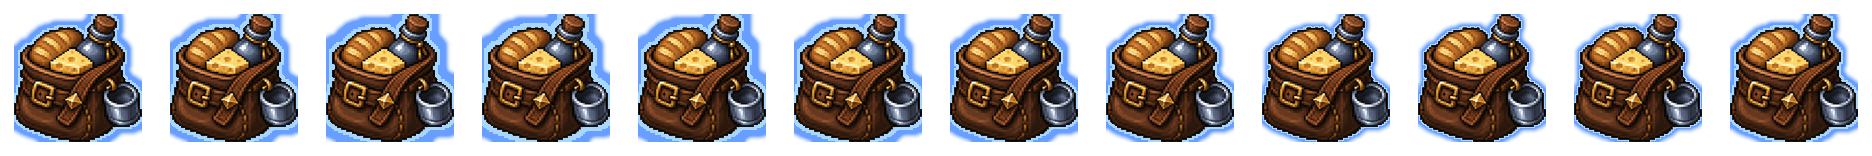
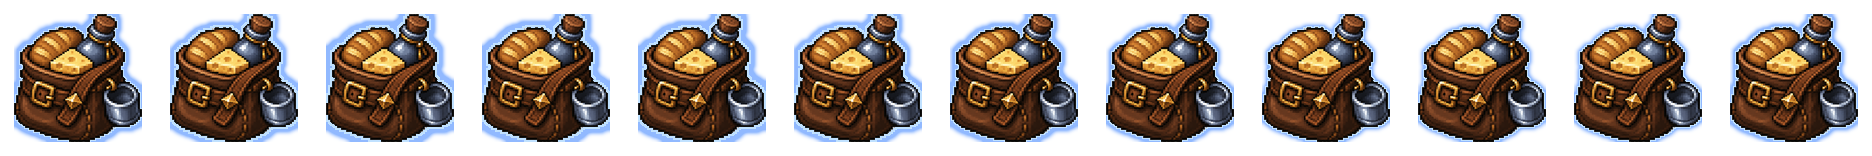
fix: calm the ADV glow and stop the outline pass fringing it
Two separate causes behind one symptom.

Too strong: the halo reached 10px at its widest at up to 235 alpha. Pulled
back to 6px and 170, which reads as a rim on the art rather than a cloud
around it.

Not crisp: TextureRedrawer.redraw always runs its result through
GlowRedrawer's outline pass - a black GlowFilter at full strength - which
is what gives an ordinary sprite its dark edge. Run over a glow's soft
outer falloff it lays a dark fringe along the whole ramp, which is what
made the halo look muddy. Glow frames now ask for a near-zero outline; the
art carries its own black keyline, so nothing is lost. Applies to the
tooltip and the grid alike, so both stay identical.

Added dev/make_glow.py so the halo can be re-tuned without hand-editing a
script each time - --peak is the knob that means 'less glow'.

diff --git a/dev/make_glow.py b/dev/make_glow.py
@@ -1,0 +1,92 @@
+#!/usr/bin/env python3
+"""
+Build a pulsing-glow animation sheet for an item, from its cell in
+CustomUV128x128.png.
+
+The glow is NOT a soft fade. It is a bounded halo whose RADIUS pulses while
+its alpha stays fairly flat, because the icon pipeline is hostile to wide
+soft gradients: TextureRedrawer runs every icon through GlowRedrawer's
+outline pass, and a gradual alpha ramp picks up a dark fringe along its whole
+falloff. A halo with a short edge behaves like an ordinary sprite instead.
+
+Usage:
+
+  python dev/make_glow.py 0x03 AdventurerSwordGlow
+  python dev/make_glow.py 0x04 AdventurerHelmGlow --peak 6 --alpha 170
+
+Tuning knobs, in the order you will actually want them:
+
+  --peak   how far the halo reaches at its widest, in source px (default 6).
+           This is what "too much glow" almost always means.
+  --alpha  ceiling on halo opacity, 0-255 (default 170).
+  --base   how far it reaches at its narrowest (default 2).
+  --edge   softness of the halo's outer edge (default 2). Keep this small;
+           see the note above about wide gradients.
+"""
+
+import argparse
+import os
+
+import numpy as np
+from PIL import Image, ImageFilter
+
+SHEET = "client/src/kabam/rotmg/assets/custom/images/CustomUV128x128.png"
+OUT_DIR = "client/src/kabam/rotmg/assets/custom/images"
+CELL = 128
+CANVAS = 156
+FRAMES = 12
+
+
+def dilate(mask, radius):
+    if radius <= 0:
+        return mask
+    return mask.filter(ImageFilter.MaxFilter(2 * int(round(radius)) + 1))
+
+
+def build(cell_index, name, base_r, peak_r, edge, alpha_max):
+    sheet = Image.open(SHEET).convert("RGBA")
+    cx, cy = (cell_index % 16) * CELL, (cell_index // 16) * CELL
+    art = sheet.crop((cx, cy, cx + CELL, cy + CELL))
+    mask = Image.fromarray((np.asarray(art)[..., 3] > 10).astype(np.uint8) * 255, "L")
+
+    off = (CANVAS - CELL) // 2
+    out = Image.new("RGBA", (CANVAS * FRAMES, CANVAS), (0, 0, 0, 0))
+
+    for i in range(FRAMES):
+        t = 0.5 + 0.5 * np.sin(2 * np.pi * i / FRAMES)
+        radius = base_r + (peak_r - base_r) * t
+
+        grown = dilate(mask, radius)
+        soft = grown.filter(ImageFilter.GaussianBlur(edge))
+        halo_a = np.clip(np.asarray(soft).astype(float), 0, alpha_max)
+
+        # brighter nearer the item, deeper blue toward the rim
+        rim = np.asarray(dilate(mask, radius * 0.35)).astype(float) / 255.0
+        halo = np.dstack([90 + 70 * rim, 150 + 60 * rim,
+                          np.full_like(rim, 255.0), halo_a]).astype(np.uint8)
+
+        frame = Image.new("RGBA", (CANVAS, CANVAS), (0, 0, 0, 0))
+        frame.alpha_composite(Image.fromarray(halo, "RGBA"), (off, off))
+        frame.alpha_composite(art, (off, off))
+        out.paste(frame, (i * CANVAS, 0))
+
+    path = os.path.join(OUT_DIR, name + ".png")
+    out.save(path)
+    print(f"  {name}.png  cell 0x{cell_index:02x}  radius {base_r}-{peak_r}px  alpha<={alpha_max}")
+    return path
+
+
+def main():
+    ap = argparse.ArgumentParser()
+    ap.add_argument("cell", help="cell index in CustomUV128x128, e.g. 0x03")
+    ap.add_argument("name", help="output name, e.g. AdventurerSwordGlow")
+    ap.add_argument("--base", type=float, default=2)
+    ap.add_argument("--peak", type=float, default=6)
+    ap.add_argument("--edge", type=float, default=2)
+    ap.add_argument("--alpha", type=int, default=170)
+    a = ap.parse_args()
+    build(int(a.cell, 0), a.name, a.base, a.peak, a.edge, a.alpha)
+
+
+if __name__ == "__main__":
+    main()
